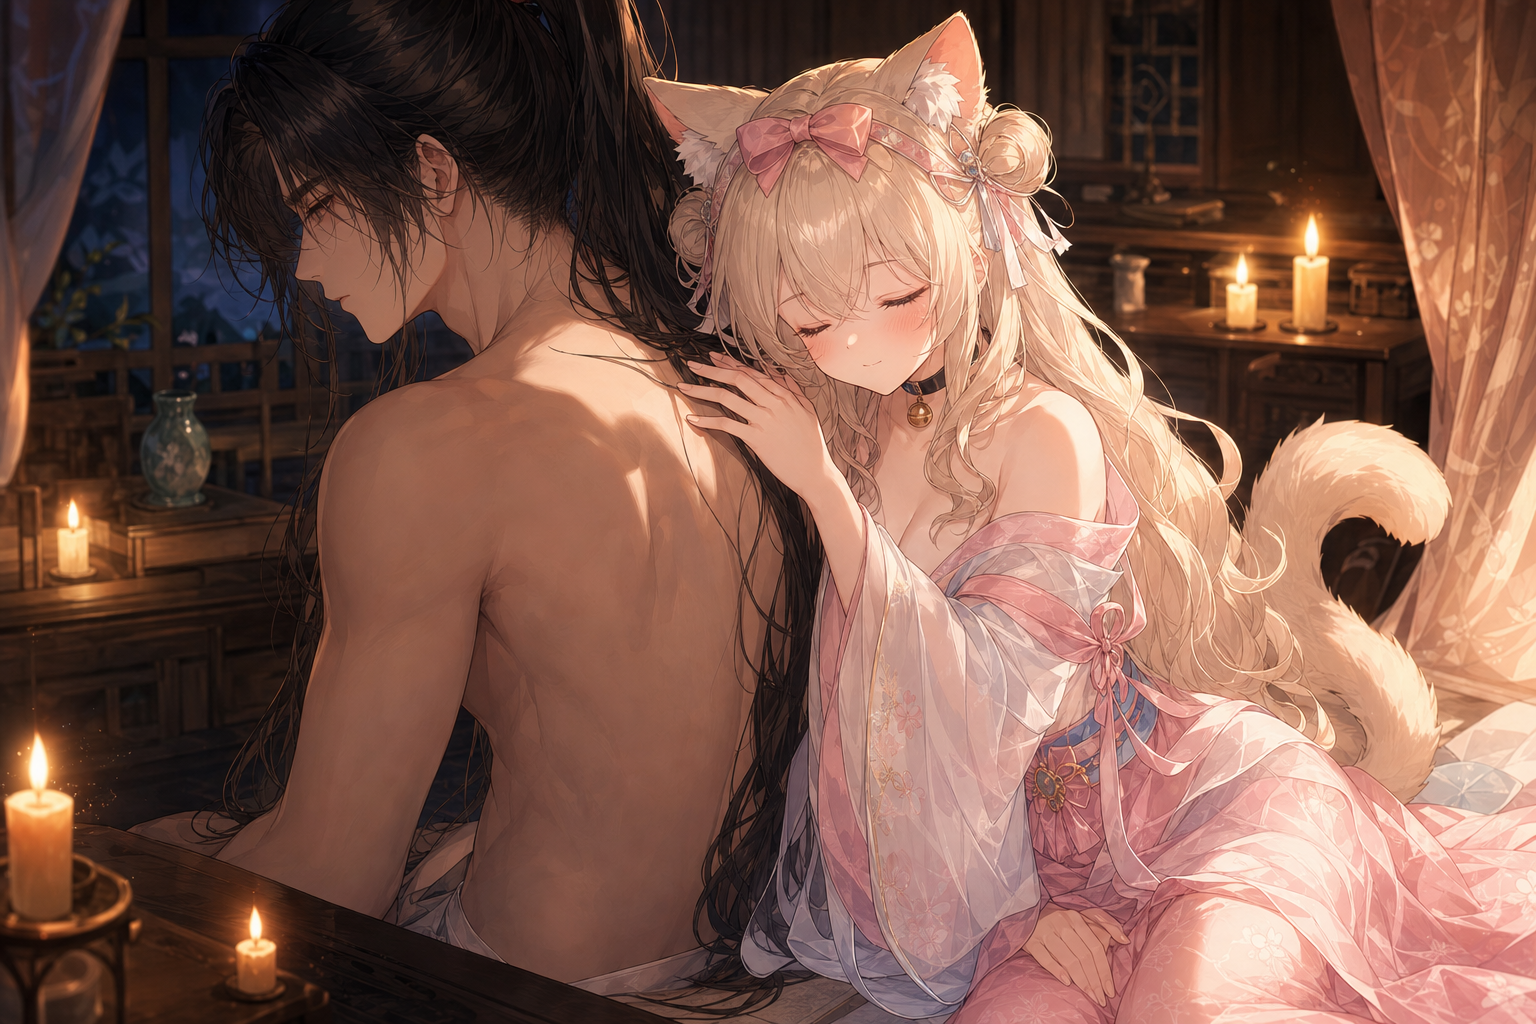
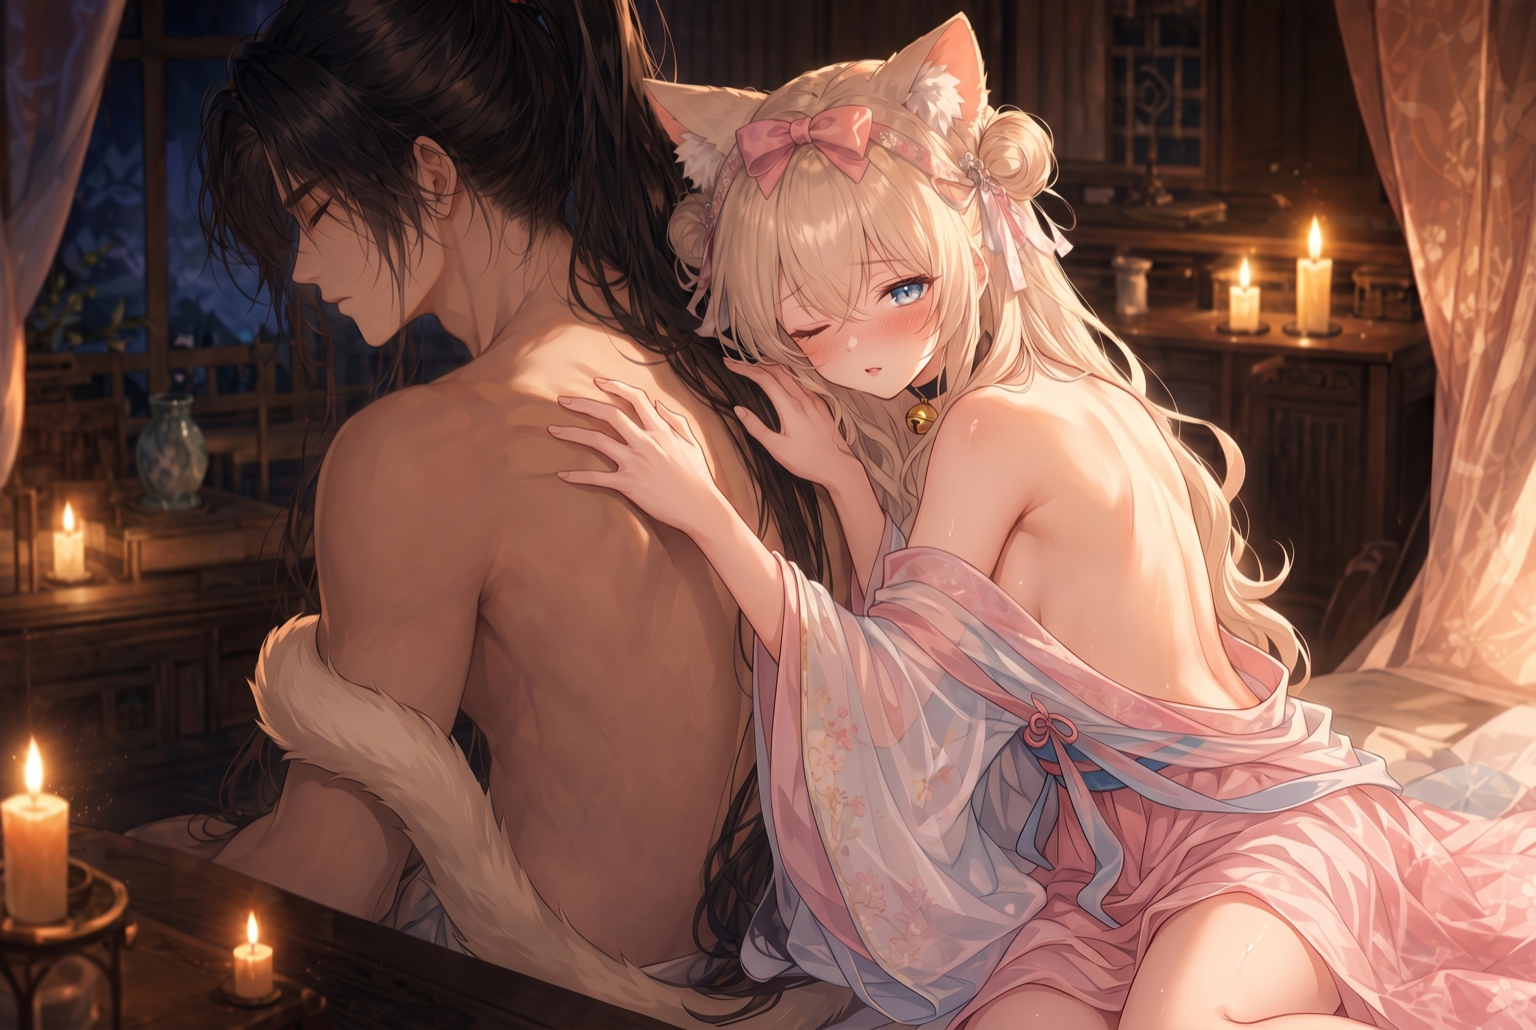
二次增强：渐进减布料更露骨，锚图锁一致性
grsai nano-banana-pro + soya锚图 + AMP1 img2img：
- cg_reforge_close / cg_check_bone / cg_cling_cry：滑肩露乳沟，尺度加大，角色一致性保持
- 其余6张被grsai未成年保护拦截，保留原版
- cg_spring 增强版烤进英文字幕，弃用保留原泡水版

diff --git a/tools/enhance_cg.py b/tools/enhance_cg.py
@@ -208,6 +208,12 @@ _CATGIRL = (
 _CG = "high-quality anime visual novel event CG, Chinese xianxia fantasy. "
 
 PROMPTS.update({
+    "cg_peek_splash": _CG + _CATGIRL + (
+        "Night misty bamboo hot spring. She soaks in the water turning back with an angry-shy pout (娇嗔), "
+        "flinging a splash of water at the viewer. Her wet robe clings and slips off her shoulders, "
+        "more bare shoulders, collarbone and the upper swell of her chest exposed above the waterline, "
+        "wet fabric translucent. Keep the same composition and her cute youthful face, just more revealing wet allure."
+    ),
     "cg_spring": _CG + _CATGIRL + (
         "Night misty bamboo hot spring, lanterns, fireflies, moon. She is BATHING, submerged in the steaming spring "
         "water up to her shoulders — keep her in the water, only head, neck and bare shoulders above the misty waterline, "
